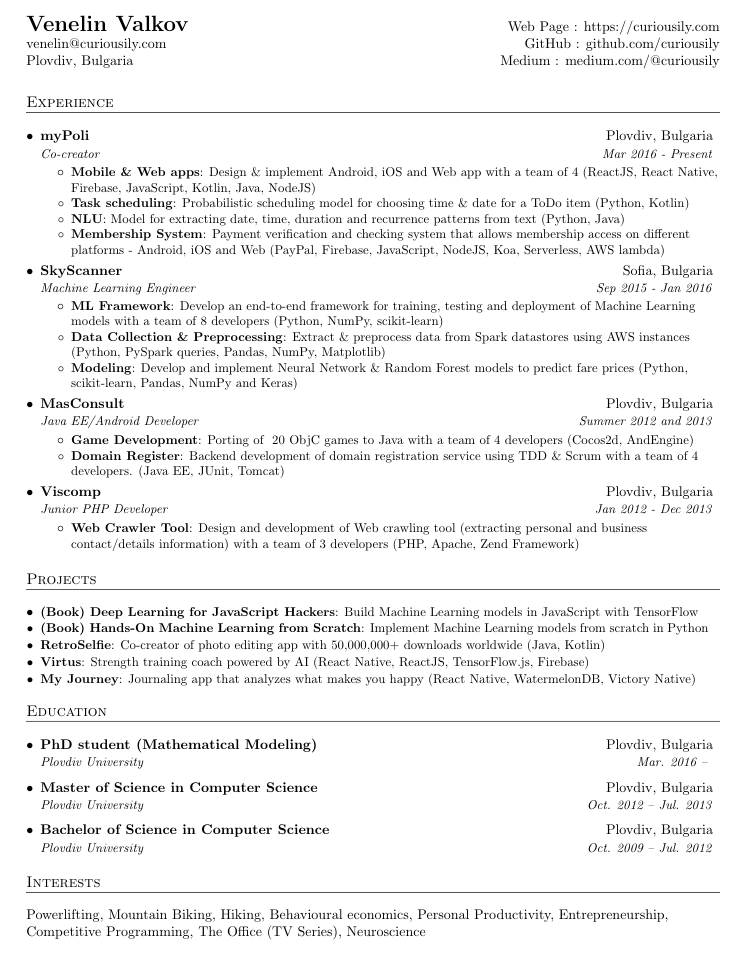
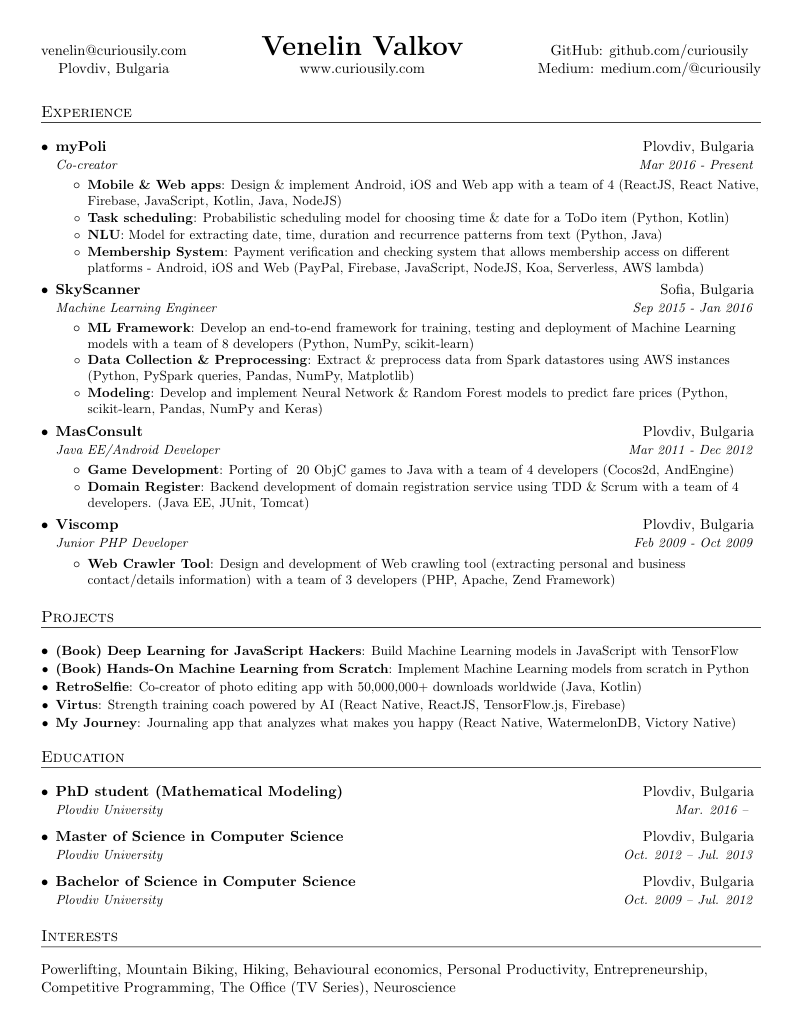
Update template

diff --git a/Venelin-Valkov-Resume.tex b/Venelin-Valkov-Resume.tex
@@ -73,10 +73,9 @@
 \begin{document}
 
 %----------HEADING-----------------
-\begin{tabular*}{\textwidth}{l@{\extracolsep{\fill}}r}
-  \textbf{\href{https://www.curiousily.com/}{\LARGE Venelin Valkov}} & Web Page : \href{https://www.curiousily.com/}{https://curiousily.com}\\
-  \href{mailto:venelin@curiousily.com}{venelin@curiousily.com} & GitHub :  \href{https://github.com/curiousily}{github.com/curiousily}\\
-  Plovdiv, Bulgaria & Medium :  \href{https://medium.com/@curiousily}{medium.com/@curiousily}\\
+\begin{tabular*}{\textwidth}{c @{\extracolsep{\fill}}c c}                                            %That's what she said%
+  \href{mailto:venelin@curiousily.com}{venelin@curiousily.com} & \textbf{\href{https://www.curiousily.com/}{\huge Venelin Valkov}} & GitHub: \href{https://github.com/curiousily}{github.com/curiousily}\\
+  Plovdiv, Bulgaria & \href{https://www.curiousily.com/}{www.curiousily.com} & Medium: \href{https://medium.com/@curiousily}{medium.com/@curiousily}\\
 \end{tabular*}
 
 
